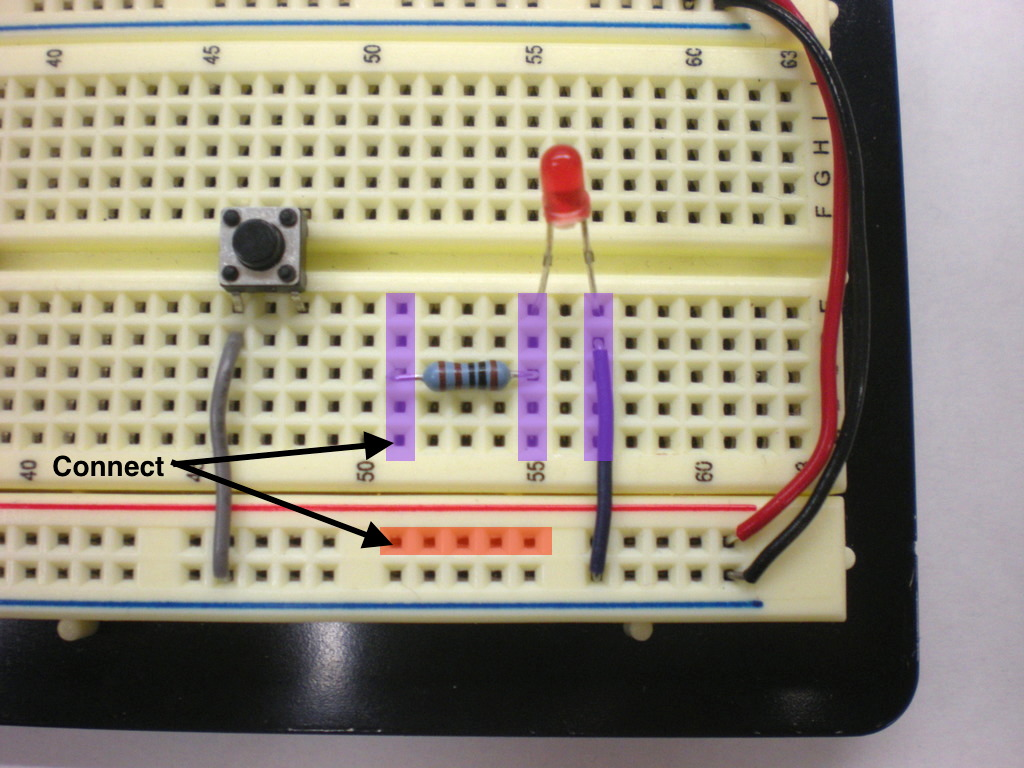
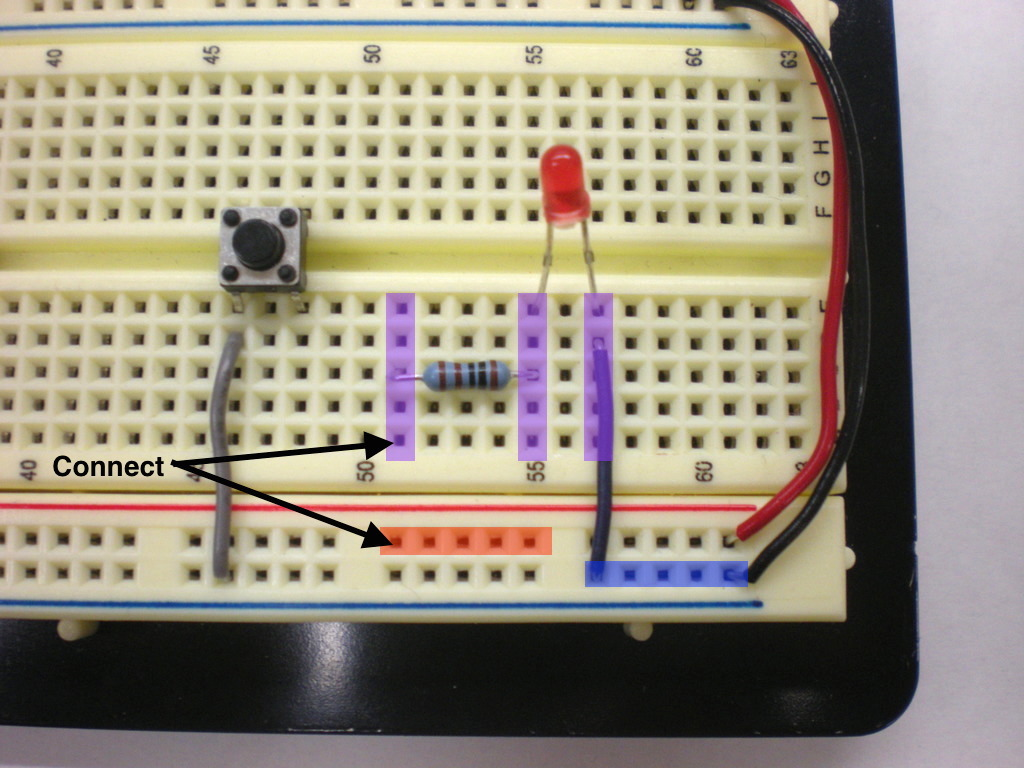
finished breadboard and transistors with img

Changed region(s): [[0.5625, 0.7188, 0.75, 0.7812]]

diff --git a/docs/transistors.md b/docs/transistors.md
@@ -6,25 +6,27 @@ next_section: arduino
 permalink: /docs/transistors/
 ---
 
-In the next page, we will start programming a microcontroller
-(Robot). But we need to learn about one more component before we
+In the next page, we will start using programming to control LEDs. But we need to learn about one more component before we
 begin. It is called the **transistor**, and it has three legs.
 
 <img src="https://learn.adafruit.com/system/assets/assets/000/002/340/large1024/learn_arduino_transistor.jpg?1396782029" style="width: 650px"/>
 
-One of the legs (the middle one) is called the **base**, and is used to control the amount of current flowing through the other two. You have to supply a small amount of current to the base to get current to flow. Here's an illustration:
+One of the legs (the middle one) is called the **base**, and is used to control the amount of current flowing through the other two legs. You have to supply a small amount of current to the base to get current to flow. Here's an illustration:
 
 <img src="https://learn.adafruit.com/system/assets/assets/000/002/348/large1024/learn_arduino_transistor.png?1396782158" style="width: 650px"/>
 
-To make the second red LED (connected to a resistor and a transistor) light up, use a wire to connect the base of the transistor to a high voltage as shown below. Ask an instructor for help if needed.
+To make the second red LED (connected to a resistor and a transistor) light up, use a wire to connect the base of the transistor to a high voltage as shown below. As in the LED case, we will use a resistor between the high voltage and the transistor base. 
 
 <img src="{{ site.baseurl }}/img/led-transistor-connection.png" style="width: 650px"/>
 
 The circuit that you just made work is drawn like so:
 
-<img src="{{ site.baseurl }}/img/led-transistor-circuit.png" style="width: 400px" align="center"/>
+<img src="{{ site.baseurl }}/img/led-transistor-circuit_schem.png" style="width: 400px" align="center"/>
 
-Look back at the Breadboard internal connection sheet, and the way the components are plugged into the breadboard, and see if this matches the circuit diagram shown.
+Notice that even though the LED is connected to a high voltage, the circuit is not complete unless the transistor base is also connected to a high voltage. This is what completes the circuit and allows current to flow to ground. 
+
+Look closely at the way the components are plugged into the breadboard. Can you trace the way current moves through the circuit? Look back at the breadboard internal connection image if needed.
 
 **_CHECKPOINT!_** 
 
+We will **always** use transistors to control outputs with the Arduino. That way, the Arduino only has to provide enough current for the base, which is very small compared to the current that may be demanded by different outputs. This will help to protect the Arduino. 

diff --git a/docs/breadboards.md b/docs/breadboards.md
@@ -19,7 +19,7 @@ components. The red line holes are kept at 5 volts, and the blue-line holes are 
 
 In the picture below, the smaller sets of holes are connected in direction of the the purple highlight. The short leg of the LED connects to ground through the black wire, and the long leg of the LED connects to the resistor. If you want to take out the LED to double-check which leg is long and which short, go ahead. 
 
-<img src="{{ site.baseurl }}/img/resistor-led-connect.jpeg" alt="Breadboard, ready for its closeup" style="width: 650px;"/>
+<img src="{{ site.baseurl }}/img/resistor-led-connect.jpg" alt="Breadboard, ready for its closeup" style="width: 650px;"/>
 
 Make sure that your "wall wart" power supply (the black box power supply) is plugged into the power supply chip on the breadboard and into the wall. 
 
